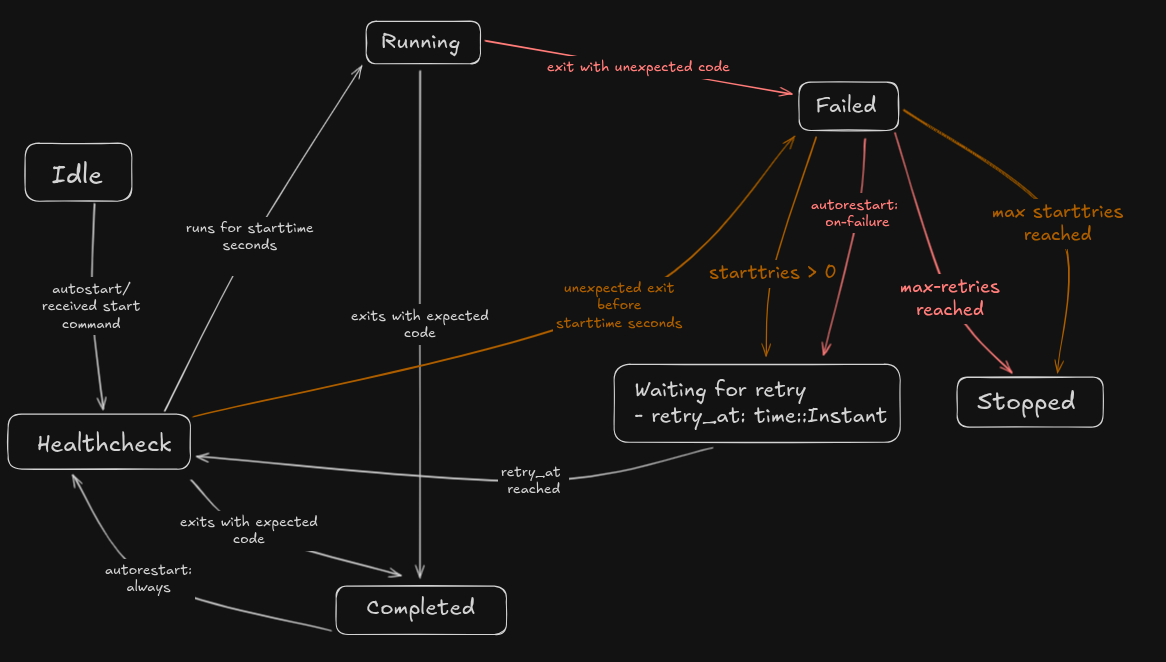
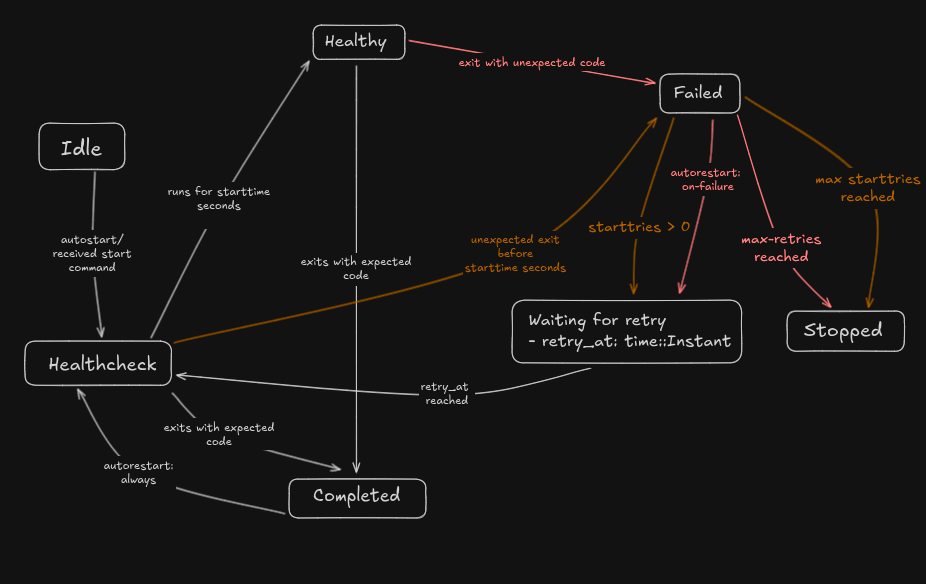
add: more member functions to Process allowing to easily check its state

diff --git a/src/run/daemon/statemachine.rs b/src/run/daemon/statemachine.rs
@@ -1,4 +1,4 @@
-use std::time::{Duration, Instant};
+use std::time::Instant;
 
 use crate::{
     log_error, log_info,
@@ -27,6 +27,16 @@ fn idle(proc: &mut Process) {
 }
 
 fn healthcheck(proc: &mut Process, started_at: Instant) {
+    if proc.healthy(started_at) {
+        log_info!(
+            "process '{}' has been running since {} seconds, marking as healthy",
+            proc.name(),
+            proc.config().starttime()
+        );
+
+        proc.update_state(ProcessState::Healthy);
+    }
+
     if let Some(code) = proc.exited() {
         if !proc.config().exitcodes().contains(&code) {
             log_info!("process '{}' exited during healthcheck with unexpected code: {}", proc.name(), code);
@@ -35,20 +45,13 @@ fn healthcheck(proc: &mut Process, started_at: Instant) {
             log_info!("process '{}' exited with healthy exit code, marking as completed", proc.name());
             proc.update_state(ProcessState::Completed);
         }
-    } else if Instant::now().duration_since(started_at).as_secs() >= proc.config().starttime() as u64 {
-        log_info!(
-            "process '{}' has been running since {} seconds, marking as healthy",
-            proc.name(),
-            proc.config().starttime()
-        );
-        proc.update_state(ProcessState::Running);
     }
 }
 
 fn running(proc: &mut Process) {
     if let Some(code) = proc.exited() {
         if !proc.config().exitcodes().contains(&code) {
-            proc.update_state(ProcessState::Failed(Box::new(ProcessState::Running)));
+            proc.update_state(ProcessState::Failed(Box::new(ProcessState::Healthy)));
         } else {
             proc.update_state(ProcessState::Completed);
         }
@@ -68,9 +71,8 @@ fn failed_runtime(proc: &mut Process) {
             }
 
             proc.increment_runtime_failures();
-            proc.update_state(ProcessState::WaitingForRetry(
-                Instant::now() + Duration::from_secs(proc.config().backoff() as u64),
-            ));
+            proc.update_state(ProcessState::WaitingForRetry(proc.retry_at()));
+
             log_info!(
                 "process '{}' exited unexpectedly, retrying in {} second(s) ({} attempt(s) left)",
                 proc.name(),
@@ -82,23 +84,25 @@ fn failed_runtime(proc: &mut Process) {
     }
 }
 
+fn failed_healthcheck(proc: &mut Process) {
+    if proc.startup_failures() == proc.config().startretries() {
+        log_info!("reached max startretries for process '{}', giving up", proc.name());
+
+        proc.update_state(ProcessState::Stopped);
+    } else {
+        log_info!("restarting process '{}' in {} seconds..", proc.name(), proc.config().backoff());
+
+        proc.increment_startup_failures();
+        proc.update_state(ProcessState::WaitingForRetry(proc.retry_at()));
+    }
+}
+
 fn failed(proc: &mut Process, prev_state: ProcessState) {
-    assert!(matches!(prev_state, ProcessState::HealthCheck(_)) || prev_state == ProcessState::Running);
+    assert!(matches!(prev_state, ProcessState::HealthCheck(_)) || prev_state == ProcessState::Healthy);
 
     match prev_state {
-        ProcessState::Running => failed_runtime(proc),
-        ProcessState::HealthCheck(_) => {
-            if proc.startup_failures() == proc.config().startretries() {
-                log_info!("reached max startretries for process '{}', giving up", proc.name());
-                proc.update_state(ProcessState::Stopped);
-            } else {
-                proc.increment_startup_failures();
-                proc.update_state(ProcessState::WaitingForRetry(
-                    Instant::now() + Duration::from_secs(proc.config().backoff() as u64),
-                ));
-                log_info!("restarting process '{}' in {} seconds..", proc.name(), proc.config().backoff());
-            }
-        }
+        ProcessState::Healthy => failed_runtime(proc),
+        ProcessState::HealthCheck(_) => failed_healthcheck(proc),
         _ => {}
     }
 }
@@ -151,7 +155,7 @@ pub fn monitor_state(proc: &mut Process) {
     match proc.state() {
         ProcessState::Idle => idle(proc),
         ProcessState::HealthCheck(started_at) => healthcheck(proc, started_at),
-        ProcessState::Running => running(proc),
+        ProcessState::Healthy => running(proc),
         ProcessState::Failed(prev_state) => failed(proc, *prev_state),
         ProcessState::WaitingForRetry(retry_at) => waiting_for_retry(proc, retry_at),
         ProcessState::Completed => completed(proc),

diff --git a/src/run/proc/mod.rs b/src/run/proc/mod.rs
@@ -3,6 +3,7 @@ use std::{
     os::unix::process::{CommandExt, ExitStatusExt},
     process::{Child, Command},
     sync::Mutex,
+    time::{self, Duration, Instant},
 };
 
 use crate::{
@@ -87,8 +88,21 @@ impl Process<'_> {
         self.startup_failures = self.startup_failures.saturating_add(1);
     }
 
+    /// Returns a `time::Instant` representing the next time the process should
+    /// be retried according to its configured backoff, assuming the failure
+    /// happened at the time of calling this method.
+    pub fn retry_at(&self) -> time::Instant {
+        Instant::now() + Duration::from_secs(self.conf.backoff() as u64)
+    }
+
+    /// Checks whether the process is healthy, according to `started_at` and its
+    /// configured healthcheck time.
+    pub fn healthy(&self, started_at: time::Instant) -> bool {
+        Instant::now().duration_since(started_at).as_secs() >= self.conf.starttime() as u64
+    }
+
     pub fn start(&mut self) -> Result<(), ProcessError> {
-        assert_ne!(self.state(), ProcessState::Running);
+        assert_ne!(self.state(), ProcessState::Healthy);
 
         let stdout_file = File::create(self.conf.stdout()).map_err(|err| ProcessError::Internal(err.to_string()))?;
         let stderr_file = File::create(self.conf.stderr()).map_err(|err| ProcessError::Internal(err.to_string()))?;
@@ -189,7 +203,7 @@ mod tests {
             runtime_failures: 0,
             state: Mutex::new(ProcessState::Idle),
         };
-        proc.update_state(ProcessState::Running);
-        assert_eq!(proc.state(), ProcessState::Running)
+        proc.update_state(ProcessState::Healthy);
+        assert_eq!(proc.state(), ProcessState::Healthy)
     }
 }

diff --git a/src/run/proc/state.rs b/src/run/proc/state.rs
@@ -5,7 +5,7 @@ use std::time;
 pub enum ProcessState {
     Idle,
     HealthCheck(time::Instant),
-    Running,
+    Healthy,
     Failed(Box<ProcessState>),
     /// Retrying at `retry_at`.
     WaitingForRetry(time::Instant),

diff --git a/README.md b/README.md
@@ -16,7 +16,7 @@ pub enum ProcessState {
     Idle,
     // Started attempt at <...>
     HealthCheck(time::Instant),
-    Running,
+    Healthy,
     // Previous state: <...>
     Failed(Box<ProcessState>),
     // Retry at <...>
